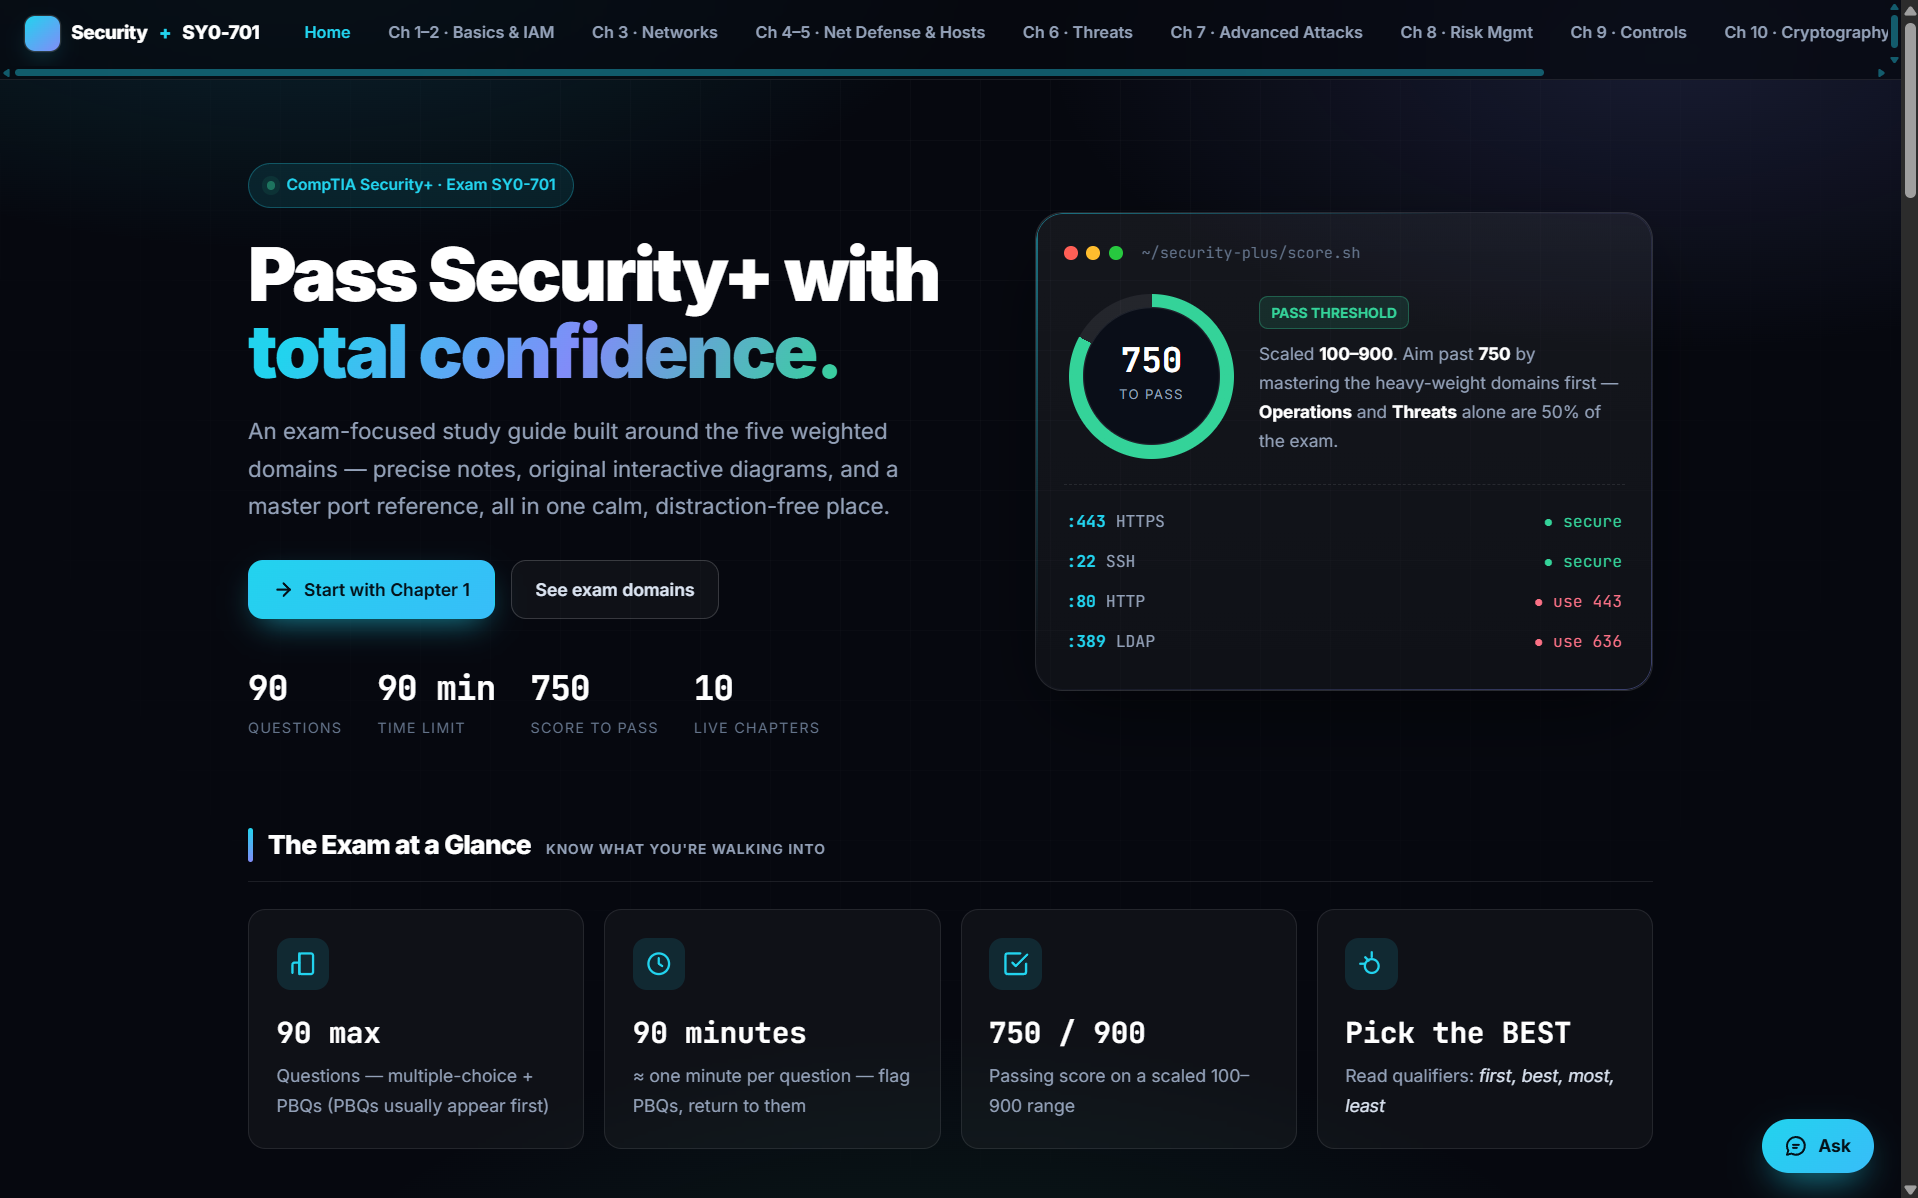
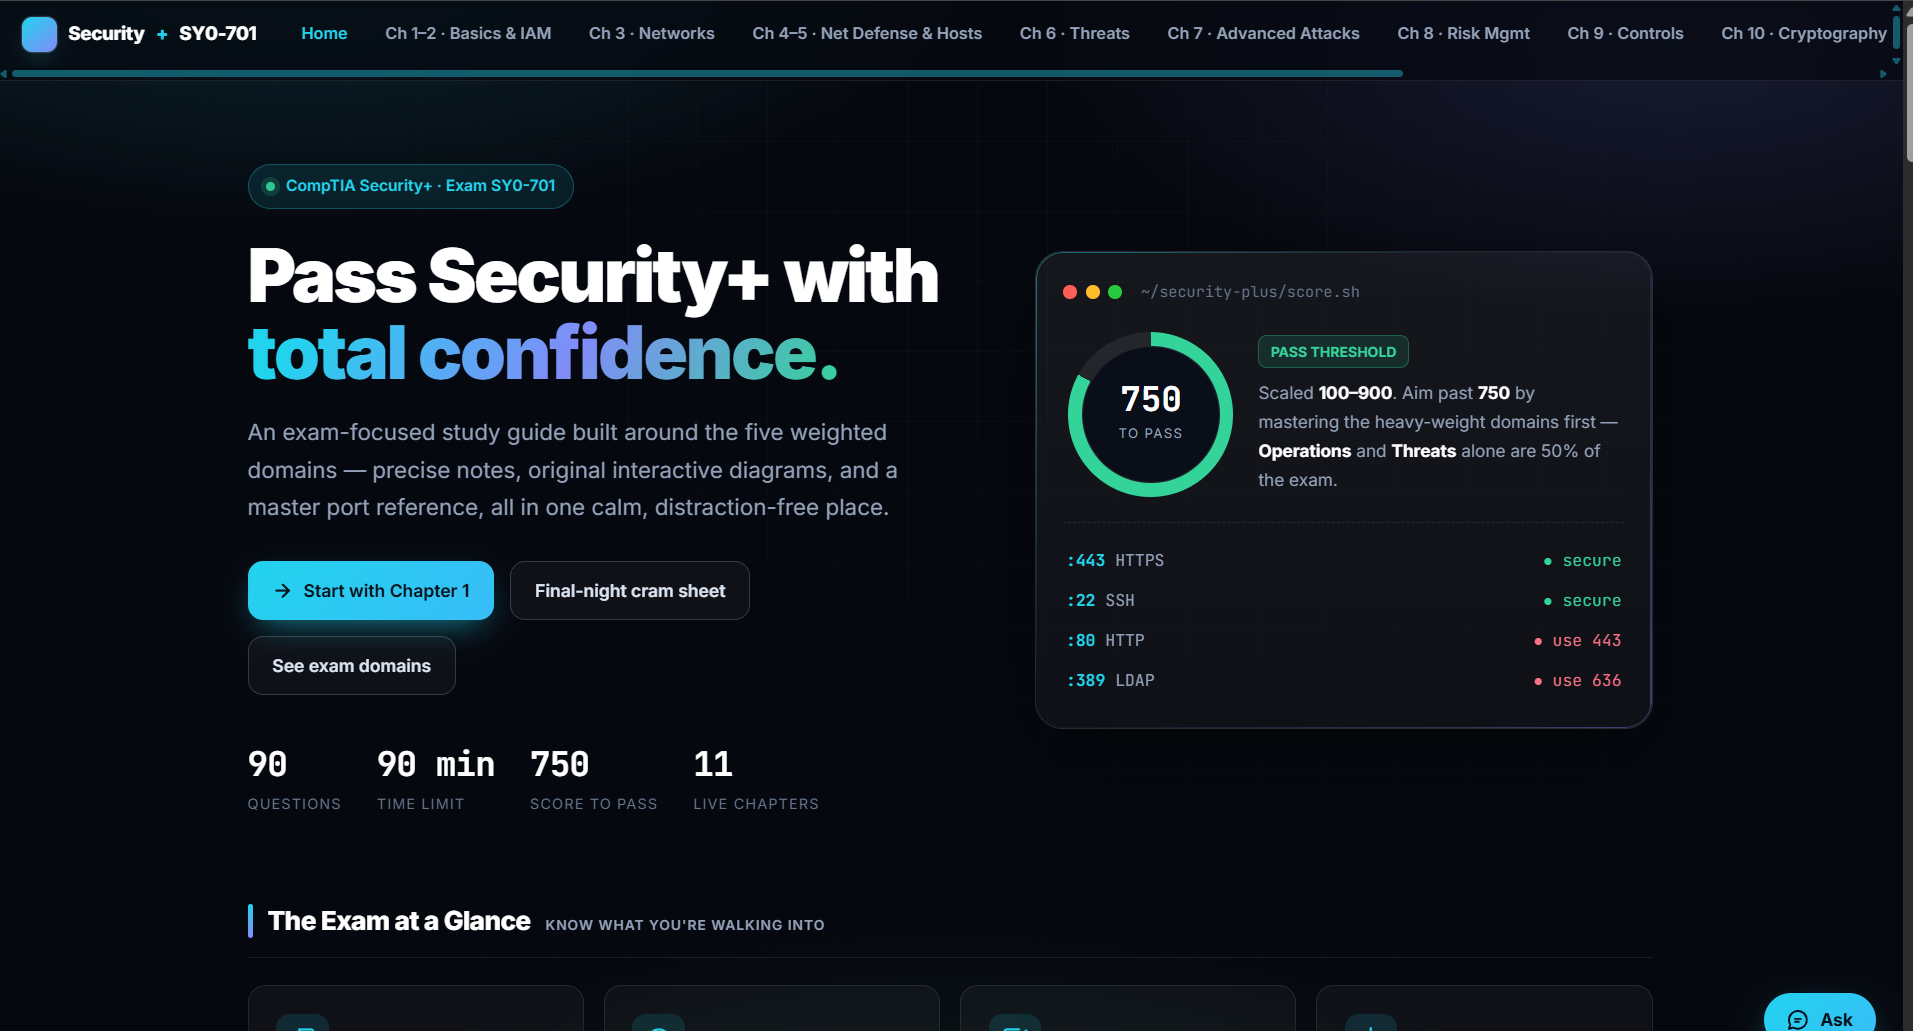
Update Study Guide screenshot, pin Data Engineering/Linux/Cisco Packet Tracer tags
New homepage screenshot reflects the site's current state (adds the
"Final-night cram sheet" button, 11 live chapters). Also adds a pinned
tag list so Data Engineering, Linux, and Cisco Packet Tracer stay
highlighted across the site regardless of how many cards they appear
on, alongside the existing frequency-based (2+) common-tag coloring.

diff --git a/app.js b/app.js
@@ -19,6 +19,14 @@ function escapeHtml(str) {
 
 // --- HighlightGrid ---
 
+// Tags always highlighted regardless of how many cards they appear on —
+// skills worth calling out even where they only show up once.
+const PINNED_TAGS = new Set([
+  "Data Engineering",
+  "Linux",
+  "Cisco Packet Tracer",
+]);
+
 function computeCommonTags(highlights) {
   const counts = {};
   highlights.forEach((item) => {
@@ -26,7 +34,9 @@ function computeCommonTags(highlights) {
       counts[tag] = (counts[tag] || 0) + 1;
     });
   });
-  return new Set(Object.keys(counts).filter((tag) => counts[tag] >= 2));
+  const common = new Set(Object.keys(counts).filter((tag) => counts[tag] >= 2));
+  PINNED_TAGS.forEach((tag) => common.add(tag));
+  return common;
 }
 
 function renderHighlightGrid() {
